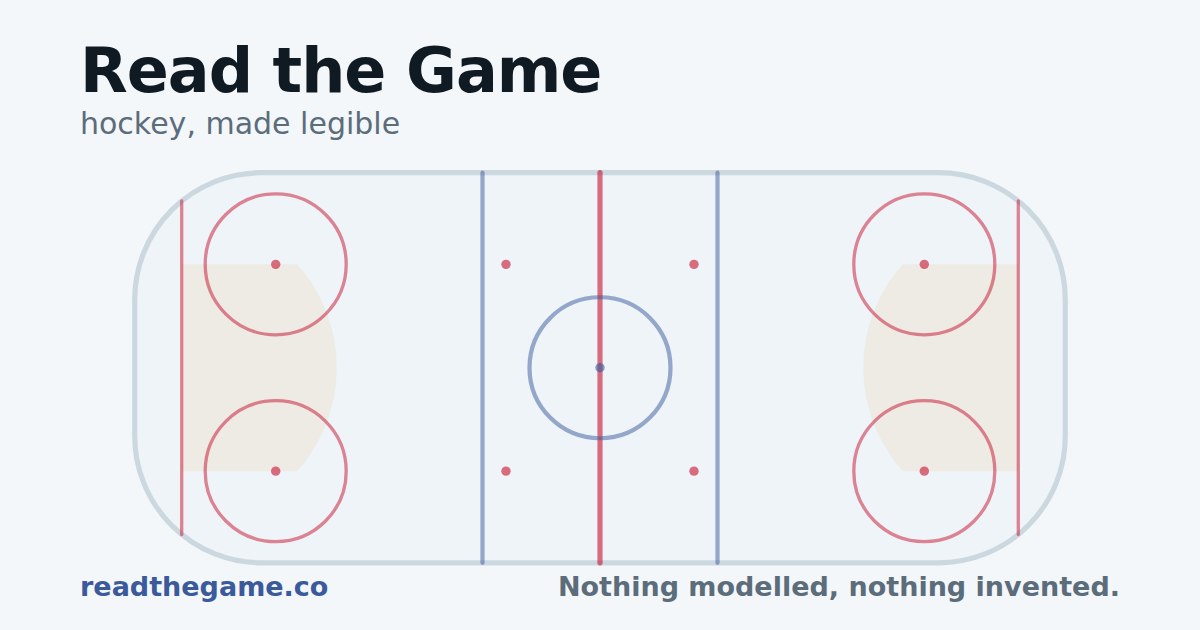
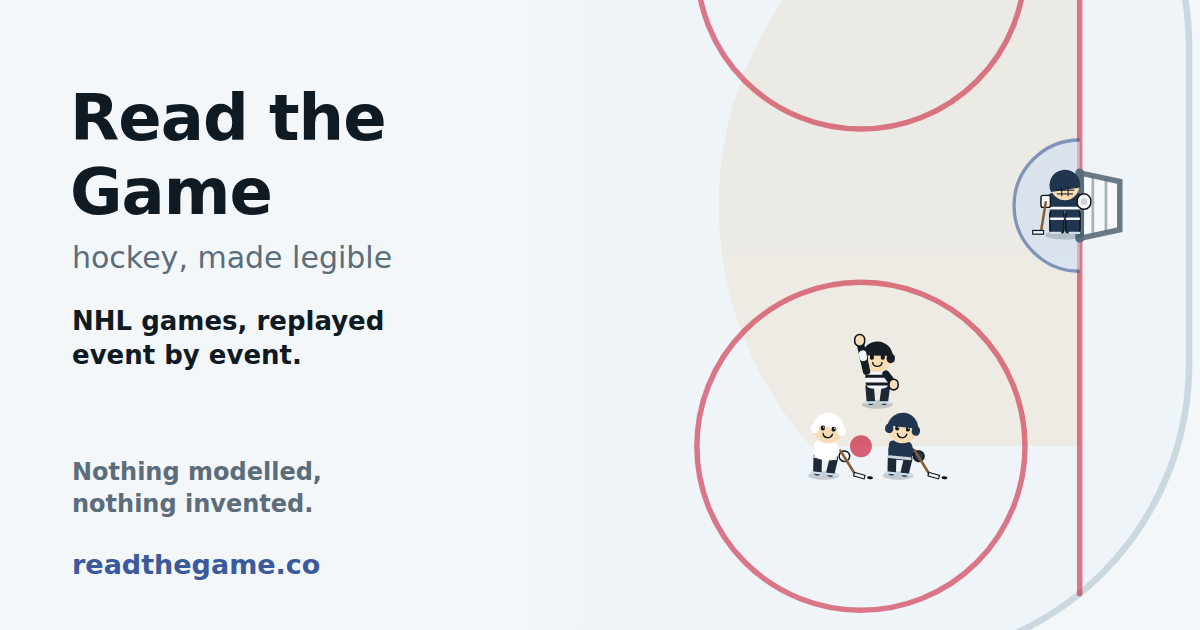
card: one end of the rink, a goaltender and a faceoff, and "NHL games, replayed event by event"
Kevin, from an X post: the sharing card was "just of the rink, no nets, no
nothing". It is now a crop of one end at true scale — net and crease, a
goaltender, a faceoff at the end-zone dot with two skaters and an official,
drawn by the replay's own figures — beside the wordmark, the tagline, and a
line saying what the site is. Still no shots and no club colours (home dark,
road white). Alt text rewritten to match.

- rinkart.js exports the end-zone spot (69, 22) instead of typing it inline.
- page.py read ALT with a pattern that expected exactly two quoted pieces and
  truncated a three-piece ALT silently; it now joins every piece.

diff --git a/src/game.html b/src/game.html
@@ -11,12 +11,12 @@
 <meta property="og:image" content="https://readthegame.co/card.png">
 <meta property="og:image:width" content="1200">
 <meta property="og:image:height" content="630">
-<meta property="og:image:alt" content="An empty NHL rink with the slot shaded in front of each net — the one region this site paints on the ice, and measures shots against.">
+<meta property="og:image:alt" content="One end of an NHL rink: a goaltender in his net, a faceoff at the end-zone dot, and the slot shaded in front of the net — the one region this site paints on the ice. Beside it: NHL games, replayed event by event.">
 <meta name="twitter:card" content="summary_large_image">
 <meta name="twitter:title" content="An NHL game, replayed event by event — Read the Game">
 <meta name="twitter:description" content="An NHL game replayed so a new fan can see what the numbers are made of. Nothing modelled, nothing invented.">
 <meta name="twitter:image" content="https://readthegame.co/card.png">
-<meta name="twitter:image:alt" content="An empty NHL rink with the slot shaded in front of each net — the one region this site paints on the ice, and measures shots against.">
+<meta name="twitter:image:alt" content="One end of an NHL rink: a goaltender in his net, a faceoff at the end-zone dot, and the slot shaded in front of the net — the one region this site paints on the ice. Beside it: NHL games, replayed event by event.">
 <meta property="og:url" content="https://readthegame.co/game">
 <style>
 .sitehdr,.sitefoot{font:500 .9rem/1.5 system-ui,-apple-system,'Segoe UI',Roboto,sans-serif;
@@ -37,7 +37,7 @@ body.previewing .sitehdr,body.previewing .sitefoot{display:none}
 .sitefoot a{color:#2a5d86}
 @media (max-width:420px){.sitehdr{padding:10px 12px}.sitefoot{padding:14px 12px 22px}}
 </style>
-<meta http-equiv="Content-Security-Policy" content="default-src 'none'; script-src 'sha256-5dC3h6kdxB+Dz57Ttl0I6s+zj2ts0ccE/SMG1gWwSfE=' https://static.cloudflareinsights.com; style-src 'sha256-BpjVIe3bY8EMq65z+x3L7MoZfMMlZvLjYl+RmmodwdE=' 'sha256-COsQhtOjN32aX3BmijXf6YE7R4R7LyhyMCzvcMAXAPQ='; connect-src 'self' https://data.readthegame.co; frame-src 'self' https://players.brightcove.net; base-uri 'none'; form-action 'none'">
+<meta http-equiv="Content-Security-Policy" content="default-src 'none'; script-src 'sha256-MoEqgtzbxo8yEvOwC3LuKDkYF59RC7B2euzYdszCqCU=' https://static.cloudflareinsights.com; style-src 'sha256-BpjVIe3bY8EMq65z+x3L7MoZfMMlZvLjYl+RmmodwdE=' 'sha256-COsQhtOjN32aX3BmijXf6YE7R4R7LyhyMCzvcMAXAPQ='; connect-src 'self' https://data.readthegame.co; frame-src 'self' https://players.brightcove.net; base-uri 'none'; form-action 'none'">
 </head>
 <body>
 <header class="sitehdr"><a class="mark" href="/">Read the Game</a><nav><a href="/#teams">Teams</a><a href="/calendar.html">By date</a><a href="/what-you-can-see.html">What you can see here</a></nav></header>
@@ -3734,6 +3734,7 @@ function boot(G,RATES){
 const SX=x=>100-x, SY=y=>42.5-y;
 
 const BOARD={x:1,y:1,w:198,h:83,r:27};
+const END_DOT_X=69, END_DOT_Y=22;
 function boardsY(sx){
  const L=BOARD.x,R=BOARD.x+BOARD.w,T=BOARD.y,B=BOARD.y+BOARD.h,r=BOARD.r;
  const cx=sx<L+r?L+r:sx>R-r?R-r:null;
@@ -3761,7 +3762,7 @@ function furniture(id='',tints=true){
  for(const b of[-25,25])P.push(line('blue',SX(b)));
  P.push(line('red thick',100)+'<circle class="ln blue" cx="100" cy="42.5" r="15"/>');
  const ENDZONE=[],NEUTRAL=[];
- for(const zx of[-69,69])for(const zy of[-22,22])ENDZONE.push([zx,zy]);
+ for(const zx of[-END_DOT_X,END_DOT_X])for(const zy of[-END_DOT_Y,END_DOT_Y])ENDZONE.push([zx,zy]);
  for(const zx of[-NEUTRAL_DOT_X,NEUTRAL_DOT_X])for(const zy of[-22,22])NEUTRAL.push([zx,zy]);
  for(const[zx,zy]of ENDZONE)P.push(`<circle class="ln red" cx="${SX(zx)}" cy="${SY(zy)}" r="15"/>`);
  for(const[zx,zy]of[...ENDZONE,...NEUTRAL])

diff --git a/src/read-the-game.html b/src/read-the-game.html
@@ -11,12 +11,12 @@
 <meta property="og:image" content="https://readthegame.co/card.png">
 <meta property="og:image:width" content="1200">
 <meta property="og:image:height" content="630">
-<meta property="og:image:alt" content="An empty NHL rink with the slot shaded in front of each net — the one region this site paints on the ice, and measures shots against.">
+<meta property="og:image:alt" content="One end of an NHL rink: a goaltender in his net, a faceoff at the end-zone dot, and the slot shaded in front of the net — the one region this site paints on the ice. Beside it: NHL games, replayed event by event.">
 <meta name="twitter:card" content="summary_large_image">
 <meta name="twitter:title" content="An NHL game, replayed event by event — Read the Game">
 <meta name="twitter:description" content="An NHL game replayed so a new fan can see what the numbers are made of. Nothing modelled, nothing invented.">
 <meta name="twitter:image" content="https://readthegame.co/card.png">
-<meta name="twitter:image:alt" content="An empty NHL rink with the slot shaded in front of each net — the one region this site paints on the ice, and measures shots against.">
+<meta name="twitter:image:alt" content="One end of an NHL rink: a goaltender in his net, a faceoff at the end-zone dot, and the slot shaded in front of the net — the one region this site paints on the ice. Beside it: NHL games, replayed event by event.">
 <style>
 .sitehdr,.sitefoot{font:500 .9rem/1.5 system-ui,-apple-system,'Segoe UI',Roboto,sans-serif;
  background:#f4f7fa;color:#0f1a23;-webkit-text-size-adjust:100%}
@@ -36,7 +36,7 @@ body.previewing .sitehdr,body.previewing .sitefoot{display:none}
 .sitefoot a{color:#2a5d86}
 @media (max-width:420px){.sitehdr{padding:10px 12px}.sitefoot{padding:14px 12px 22px}}
 </style>
-<meta http-equiv="Content-Security-Policy" content="default-src 'none'; script-src 'sha256-v76/dpAg91WiY/yByTVfgqZMJDfGILgsoxIgPPr2qY4=' https://static.cloudflareinsights.com; style-src 'sha256-BpjVIe3bY8EMq65z+x3L7MoZfMMlZvLjYl+RmmodwdE=' 'sha256-COsQhtOjN32aX3BmijXf6YE7R4R7LyhyMCzvcMAXAPQ='; connect-src 'self'; frame-src 'self' https://players.brightcove.net; base-uri 'none'; form-action 'none'">
+<meta http-equiv="Content-Security-Policy" content="default-src 'none'; script-src 'sha256-ErJ4i0092WJmLyAWvCI1cqrUbI37VHveU+WJnlrKfDw=' https://static.cloudflareinsights.com; style-src 'sha256-BpjVIe3bY8EMq65z+x3L7MoZfMMlZvLjYl+RmmodwdE=' 'sha256-COsQhtOjN32aX3BmijXf6YE7R4R7LyhyMCzvcMAXAPQ='; connect-src 'self'; frame-src 'self' https://players.brightcove.net; base-uri 'none'; form-action 'none'">
 </head>
 <body>
 <header class="sitehdr"><a class="mark" href="/">Read the Game</a><nav><a href="/#teams">Teams</a><a href="/calendar.html">By date</a><a href="/what-you-can-see.html">What you can see here</a></nav></header>
@@ -3733,6 +3733,7 @@ function boot(G,RATES){
 const SX=x=>100-x, SY=y=>42.5-y;
 
 const BOARD={x:1,y:1,w:198,h:83,r:27};
+const END_DOT_X=69, END_DOT_Y=22;
 function boardsY(sx){
  const L=BOARD.x,R=BOARD.x+BOARD.w,T=BOARD.y,B=BOARD.y+BOARD.h,r=BOARD.r;
  const cx=sx<L+r?L+r:sx>R-r?R-r:null;
@@ -3760,7 +3761,7 @@ function furniture(id='',tints=true){
  for(const b of[-25,25])P.push(line('blue',SX(b)));
  P.push(line('red thick',100)+'<circle class="ln blue" cx="100" cy="42.5" r="15"/>');
  const ENDZONE=[],NEUTRAL=[];
- for(const zx of[-69,69])for(const zy of[-22,22])ENDZONE.push([zx,zy]);
+ for(const zx of[-END_DOT_X,END_DOT_X])for(const zy of[-END_DOT_Y,END_DOT_Y])ENDZONE.push([zx,zy]);
  for(const zx of[-NEUTRAL_DOT_X,NEUTRAL_DOT_X])for(const zy of[-22,22])NEUTRAL.push([zx,zy]);
  for(const[zx,zy]of ENDZONE)P.push(`<circle class="ln red" cx="${SX(zx)}" cy="${SY(zy)}" r="15"/>`);
  for(const[zx,zy]of[...ENDZONE,...NEUTRAL])

diff --git a/src/penalties.html b/src/penalties.html
@@ -11,12 +11,12 @@
 <meta property="og:image" content="https://readthegame.co/card.png">
 <meta property="og:image:width" content="1200">
 <meta property="og:image:height" content="630">
-<meta property="og:image:alt" content="An empty NHL rink with the slot shaded in front of each net — the one region this site paints on the ice, and measures shots against.">
+<meta property="og:image:alt" content="One end of an NHL rink: a goaltender in his net, a faceoff at the end-zone dot, and the slot shaded in front of the net — the one region this site paints on the ice. Beside it: NHL games, replayed event by event.">
 <meta name="twitter:card" content="summary_large_image">
 <meta name="twitter:title" content="Penalties — Read the Game">
 <meta name="twitter:description" content="A penalty is time off the ice: the offender sits, and his team plays a skater short &mdash; unless the other team commits a penalty of the same duration at the same time, and then both teams skate with the same number of players. The side with the extra skater is on a power play: the same penalty, named from the other bench.">
 <meta name="twitter:image" content="https://readthegame.co/card.png">
-<meta name="twitter:image:alt" content="An empty NHL rink with the slot shaded in front of each net — the one region this site paints on the ice, and measures shots against.">
+<meta name="twitter:image:alt" content="One end of an NHL rink: a goaltender in his net, a faceoff at the end-zone dot, and the slot shaded in front of the net — the one region this site paints on the ice. Beside it: NHL games, replayed event by event.">
 <meta property="og:url" content="https://readthegame.co/penalties.html">
 <style>
 .sitehdr,.sitefoot{font:500 .9rem/1.5 system-ui,-apple-system,'Segoe UI',Roboto,sans-serif;

diff --git a/src/what-you-can-see.html b/src/what-you-can-see.html
@@ -11,12 +11,12 @@
 <meta property="og:image" content="https://readthegame.co/card.png">
 <meta property="og:image:width" content="1200">
 <meta property="og:image:height" content="630">
-<meta property="og:image:alt" content="An empty NHL rink with the slot shaded in front of each net — the one region this site paints on the ice, and measures shots against.">
+<meta property="og:image:alt" content="One end of an NHL rink: a goaltender in his net, a faceoff at the end-zone dot, and the slot shaded in front of the net — the one region this site paints on the ice. Beside it: NHL games, replayed event by event.">
 <meta name="twitter:card" content="summary_large_image">
 <meta name="twitter:title" content="What you can see here — Read the Game">
 <meta name="twitter:description" content="The hockey rules this site names as they happen — icing, offside, faceoffs, penalties, the empty net — and the measurements it counts itself, each one showing the events behind it.">
 <meta name="twitter:image" content="https://readthegame.co/card.png">
-<meta name="twitter:image:alt" content="An empty NHL rink with the slot shaded in front of each net — the one region this site paints on the ice, and measures shots against.">
+<meta name="twitter:image:alt" content="One end of an NHL rink: a goaltender in his net, a faceoff at the end-zone dot, and the slot shaded in front of the net — the one region this site paints on the ice. Beside it: NHL games, replayed event by event.">
 <meta property="og:url" content="https://readthegame.co/what-you-can-see.html">
 <style>
 .sitehdr,.sitefoot{font:500 .9rem/1.5 system-ui,-apple-system,'Segoe UI',Roboto,sans-serif;

diff --git a/src/slot.html b/src/slot.html
@@ -11,12 +11,12 @@
 <meta property="og:image" content="https://readthegame.co/card.png">
 <meta property="og:image:width" content="1200">
 <meta property="og:image:height" content="630">
-<meta property="og:image:alt" content="An empty NHL rink with the slot shaded in front of each net — the one region this site paints on the ice, and measures shots against.">
+<meta property="og:image:alt" content="One end of an NHL rink: a goaltender in his net, a faceoff at the end-zone dot, and the slot shaded in front of the net — the one region this site paints on the ice. Beside it: NHL games, replayed event by event.">
 <meta name="twitter:card" content="summary_large_image">
 <meta name="twitter:title" content="Shots from the slot — Read the Game">
 <meta name="twitter:description" content="A shot taken from inside the slot goes in 11.6% of the time &mdash; 19,537 goals from 168,221 attempts. From outside it, 3.3%. That gap is what the slot shading is for.">
 <meta name="twitter:image" content="https://readthegame.co/card.png">
-<meta name="twitter:image:alt" content="An empty NHL rink with the slot shaded in front of each net — the one region this site paints on the ice, and measures shots against.">
+<meta name="twitter:image:alt" content="One end of an NHL rink: a goaltender in his net, a faceoff at the end-zone dot, and the slot shaded in front of the net — the one region this site paints on the ice. Beside it: NHL games, replayed event by event.">
 <meta property="og:url" content="https://readthegame.co/slot.html">
 <style>
 .sitehdr,.sitefoot{font:500 .9rem/1.5 system-ui,-apple-system,'Segoe UI',Roboto,sans-serif;

diff --git a/src/faceoffs.html b/src/faceoffs.html
@@ -11,12 +11,12 @@
 <meta property="og:image" content="https://readthegame.co/card.png">
 <meta property="og:image:width" content="1200">
 <meta property="og:image:height" content="630">
-<meta property="og:image:alt" content="An empty NHL rink with the slot shaded in front of each net — the one region this site paints on the ice, and measures shots against.">
+<meta property="og:image:alt" content="One end of an NHL rink: a goaltender in his net, a faceoff at the end-zone dot, and the slot shaded in front of the net — the one region this site paints on the ice. Beside it: NHL games, replayed event by event.">
 <meta name="twitter:card" content="summary_large_image">
 <meta name="twitter:title" content="Faceoffs — Read the Game">
 <meta name="twitter:description" content="Nine spots on the ice and the rule picks one. An icing brings the draw all the way back &mdash; same second as the whistle, and deep in the offending team&rsquo;s own end.">
 <meta name="twitter:image" content="https://readthegame.co/card.png">
-<meta name="twitter:image:alt" content="An empty NHL rink with the slot shaded in front of each net — the one region this site paints on the ice, and measures shots against.">
+<meta name="twitter:image:alt" content="One end of an NHL rink: a goaltender in his net, a faceoff at the end-zone dot, and the slot shaded in front of the net — the one region this site paints on the ice. Beside it: NHL games, replayed event by event.">
 <meta property="og:url" content="https://readthegame.co/faceoffs.html">
 <style>
 .sitehdr,.sitefoot{font:500 .9rem/1.5 system-ui,-apple-system,'Segoe UI',Roboto,sans-serif;

diff --git a/src/offside.html b/src/offside.html
@@ -11,12 +11,12 @@
 <meta property="og:image" content="https://readthegame.co/card.png">
 <meta property="og:image:width" content="1200">
 <meta property="og:image:height" content="630">
-<meta property="og:image:alt" content="An empty NHL rink with the slot shaded in front of each net — the one region this site paints on the ice, and measures shots against.">
+<meta property="og:image:alt" content="One end of an NHL rink: a goaltender in his net, a faceoff at the end-zone dot, and the slot shaded in front of the net — the one region this site paints on the ice. Beside it: NHL games, replayed event by event.">
 <meta name="twitter:card" content="summary_large_image">
 <meta name="twitter:title" content="Offside — Read the Game">
 <meta name="twitter:description" content="This is the one rule we can draw but never replay: the feed records the call and the restart, never the crossing. So in a real game, watch the line rather than the play.">
 <meta name="twitter:image" content="https://readthegame.co/card.png">
-<meta name="twitter:image:alt" content="An empty NHL rink with the slot shaded in front of each net — the one region this site paints on the ice, and measures shots against.">
+<meta name="twitter:image:alt" content="One end of an NHL rink: a goaltender in his net, a faceoff at the end-zone dot, and the slot shaded in front of the net — the one region this site paints on the ice. Beside it: NHL games, replayed event by event.">
 <meta property="og:url" content="https://readthegame.co/offside.html">
 <style>
 .sitehdr,.sitefoot{font:500 .9rem/1.5 system-ui,-apple-system,'Segoe UI',Roboto,sans-serif;

diff --git a/src/calendar.html b/src/calendar.html
@@ -11,12 +11,12 @@
 <meta property="og:image" content="https://readthegame.co/card.png">
 <meta property="og:image:width" content="1200">
 <meta property="og:image:height" content="630">
-<meta property="og:image:alt" content="An empty NHL rink with the slot shaded in front of each net — the one region this site paints on the ice, and measures shots against.">
+<meta property="og:image:alt" content="One end of an NHL rink: a goaltender in his net, a faceoff at the end-zone dot, and the slot shaded in front of the net — the one region this site paints on the ice. Beside it: NHL games, replayed event by event.">
 <meta name="twitter:card" content="summary_large_image">
 <meta name="twitter:title" content="Every night in the archive — Read the Game">
 <meta name="twitter:description" content="Three seasons of NHL hockey, night by night. Pick a date to see the games played on it, including the ones we hold but cannot show.">
 <meta name="twitter:image" content="https://readthegame.co/card.png">
-<meta name="twitter:image:alt" content="An empty NHL rink with the slot shaded in front of each net — the one region this site paints on the ice, and measures shots against.">
+<meta name="twitter:image:alt" content="One end of an NHL rink: a goaltender in his net, a faceoff at the end-zone dot, and the slot shaded in front of the net — the one region this site paints on the ice. Beside it: NHL games, replayed event by event.">
 <meta property="og:url" content="https://readthegame.co/calendar.html">
 <style>
 .sitehdr,.sitefoot{font:500 .9rem/1.5 system-ui,-apple-system,'Segoe UI',Roboto,sans-serif;

diff --git a/src/control.html b/src/control.html
@@ -11,12 +11,12 @@
 <meta property="og:image" content="https://readthegame.co/card.png">
 <meta property="og:image:width" content="1200">
 <meta property="og:image:height" content="630">
-<meta property="og:image:alt" content="An empty NHL rink with the slot shaded in front of each net — the one region this site paints on the ice, and measures shots against.">
+<meta property="og:image:alt" content="One end of an NHL rink: a goaltender in his net, a faceoff at the end-zone dot, and the slot shaded in front of the net — the one region this site paints on the ice. Beside it: NHL games, replayed event by event.">
 <meta name="twitter:card" content="summary_large_image">
 <meta name="twitter:title" content="Control — Read the Game">
 <meta name="twitter:description" content="Every shot attempt, counted for both teams as it happens &mdash; whether it reached the goaltender, missed the net, or a body blocked it on the way.">
 <meta name="twitter:image" content="https://readthegame.co/card.png">
-<meta name="twitter:image:alt" content="An empty NHL rink with the slot shaded in front of each net — the one region this site paints on the ice, and measures shots against.">
+<meta name="twitter:image:alt" content="One end of an NHL rink: a goaltender in his net, a faceoff at the end-zone dot, and the slot shaded in front of the net — the one region this site paints on the ice. Beside it: NHL games, replayed event by event.">
 <meta property="og:url" content="https://readthegame.co/control.html">
 <style>
 .sitehdr,.sitefoot{font:500 .9rem/1.5 system-ui,-apple-system,'Segoe UI',Roboto,sans-serif;

diff --git a/src/empty-net.html b/src/empty-net.html
@@ -11,12 +11,12 @@
 <meta property="og:image" content="https://readthegame.co/card.png">
 <meta property="og:image:width" content="1200">
 <meta property="og:image:height" content="630">
-<meta property="og:image:alt" content="An empty NHL rink with the slot shaded in front of each net — the one region this site paints on the ice, and measures shots against.">
+<meta property="og:image:alt" content="One end of an NHL rink: a goaltender in his net, a faceoff at the end-zone dot, and the slot shaded in front of the net — the one region this site paints on the ice. Beside it: NHL games, replayed event by event.">
 <meta name="twitter:card" content="summary_large_image">
 <meta name="twitter:title" content="The empty net — Read the Game">
 <meta name="twitter:description" content="Losing late, a team trades its goaltender for a sixth skater. Nothing is toggled here &mdash; the goalie is simply no longer on the ice.">
 <meta name="twitter:image" content="https://readthegame.co/card.png">
-<meta name="twitter:image:alt" content="An empty NHL rink with the slot shaded in front of each net — the one region this site paints on the ice, and measures shots against.">
+<meta name="twitter:image:alt" content="One end of an NHL rink: a goaltender in his net, a faceoff at the end-zone dot, and the slot shaded in front of the net — the one region this site paints on the ice. Beside it: NHL games, replayed event by event.">
 <meta property="og:url" content="https://readthegame.co/empty-net.html">
 <style>
 .sitehdr,.sitefoot{font:500 .9rem/1.5 system-ui,-apple-system,'Segoe UI',Roboto,sans-serif;

diff --git a/src/how-we-measure.html b/src/how-we-measure.html
@@ -11,12 +11,12 @@
 <meta property="og:image" content="https://readthegame.co/card.png">
 <meta property="og:image:width" content="1200">
 <meta property="og:image:height" content="630">
-<meta property="og:image:alt" content="An empty NHL rink with the slot shaded in front of each net — the one region this site paints on the ice, and measures shots against.">
+<meta property="og:image:alt" content="One end of an NHL rink: a goaltender in his net, a faceoff at the end-zone dot, and the slot shaded in front of the net — the one region this site paints on the ice. Beside it: NHL games, replayed event by event.">
 <meta name="twitter:card" content="summary_large_image">
 <meta name="twitter:title" content="How we measure — Read the Game">
 <meta name="twitter:description" content="Every figure on this site, what it was counted from, how many games it takes to mean anything, and the arguments against it.">
 <meta name="twitter:image" content="https://readthegame.co/card.png">
-<meta name="twitter:image:alt" content="An empty NHL rink with the slot shaded in front of each net — the one region this site paints on the ice, and measures shots against.">
+<meta name="twitter:image:alt" content="One end of an NHL rink: a goaltender in his net, a faceoff at the end-zone dot, and the slot shaded in front of the net — the one region this site paints on the ice. Beside it: NHL games, replayed event by event.">
 <meta property="og:url" content="https://readthegame.co/how-we-measure.html">
 <style>
 .sitehdr,.sitefoot{font:500 .9rem/1.5 system-ui,-apple-system,'Segoe UI',Roboto,sans-serif;

diff --git a/src/icing.html b/src/icing.html
@@ -11,12 +11,12 @@
 <meta property="og:image" content="https://readthegame.co/card.png">
 <meta property="og:image:width" content="1200">
 <meta property="og:image:height" content="630">
-<meta property="og:image:alt" content="An empty NHL rink with the slot shaded in front of each net — the one region this site paints on the ice, and measures shots against.">
+<meta property="og:image:alt" content="One end of an NHL rink: a goaltender in his net, a faceoff at the end-zone dot, and the slot shaded in front of the net — the one region this site paints on the ice. Beside it: NHL games, replayed event by event.">
 <meta name="twitter:card" content="summary_large_image">
 <meta name="twitter:title" content="Icing — Read the Game">
 <meta name="twitter:description" content="The puck is sent the length of the ice and play comes straight back. Watch where the faceoff goes &mdash; that dot is the whole punishment.">
 <meta name="twitter:image" content="https://readthegame.co/card.png">
-<meta name="twitter:image:alt" content="An empty NHL rink with the slot shaded in front of each net — the one region this site paints on the ice, and measures shots against.">
+<meta name="twitter:image:alt" content="One end of an NHL rink: a goaltender in his net, a faceoff at the end-zone dot, and the slot shaded in front of the net — the one region this site paints on the ice. Beside it: NHL games, replayed event by event.">
 <meta property="og:url" content="https://readthegame.co/icing.html">
 <style>
 .sitehdr,.sitefoot{font:500 .9rem/1.5 system-ui,-apple-system,'Segoe UI',Roboto,sans-serif;
